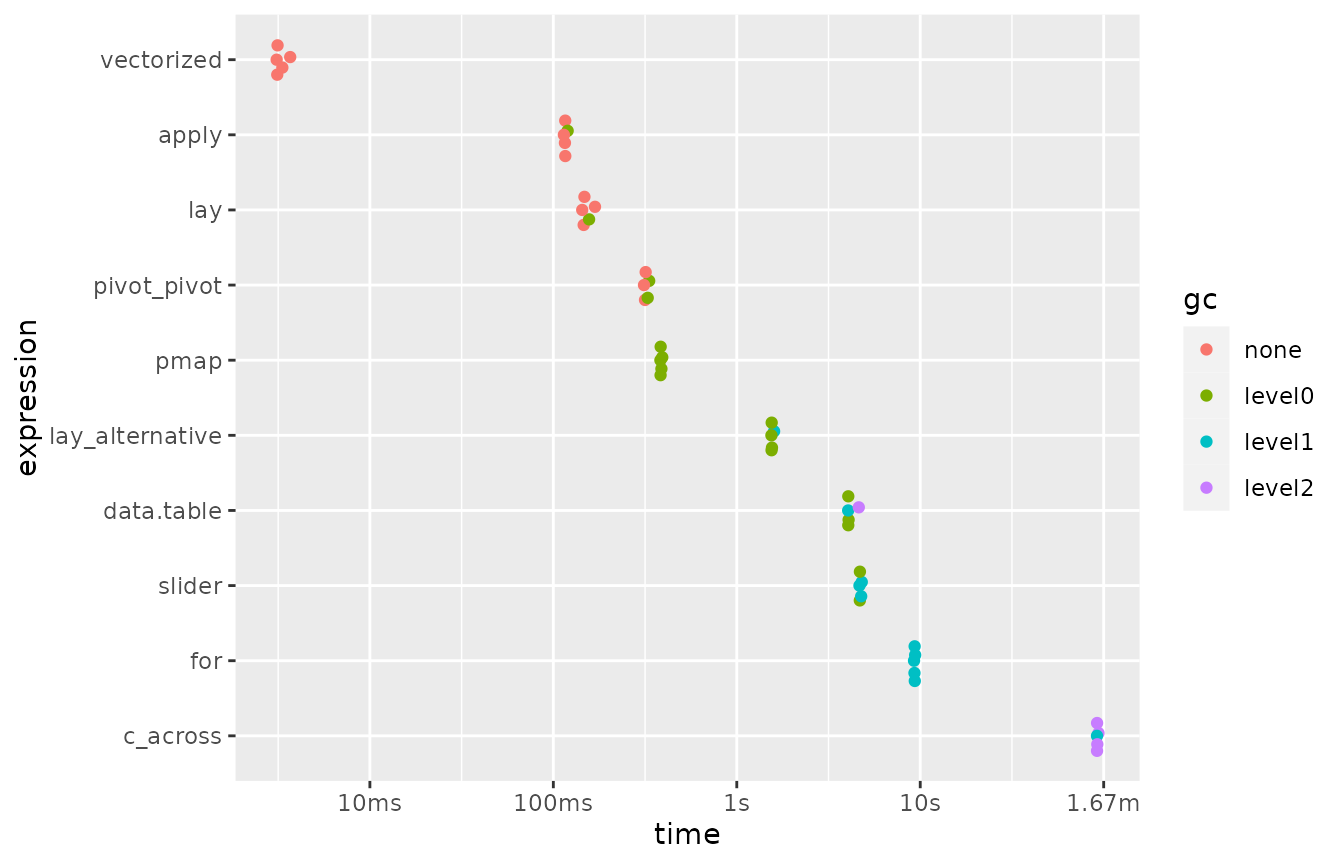
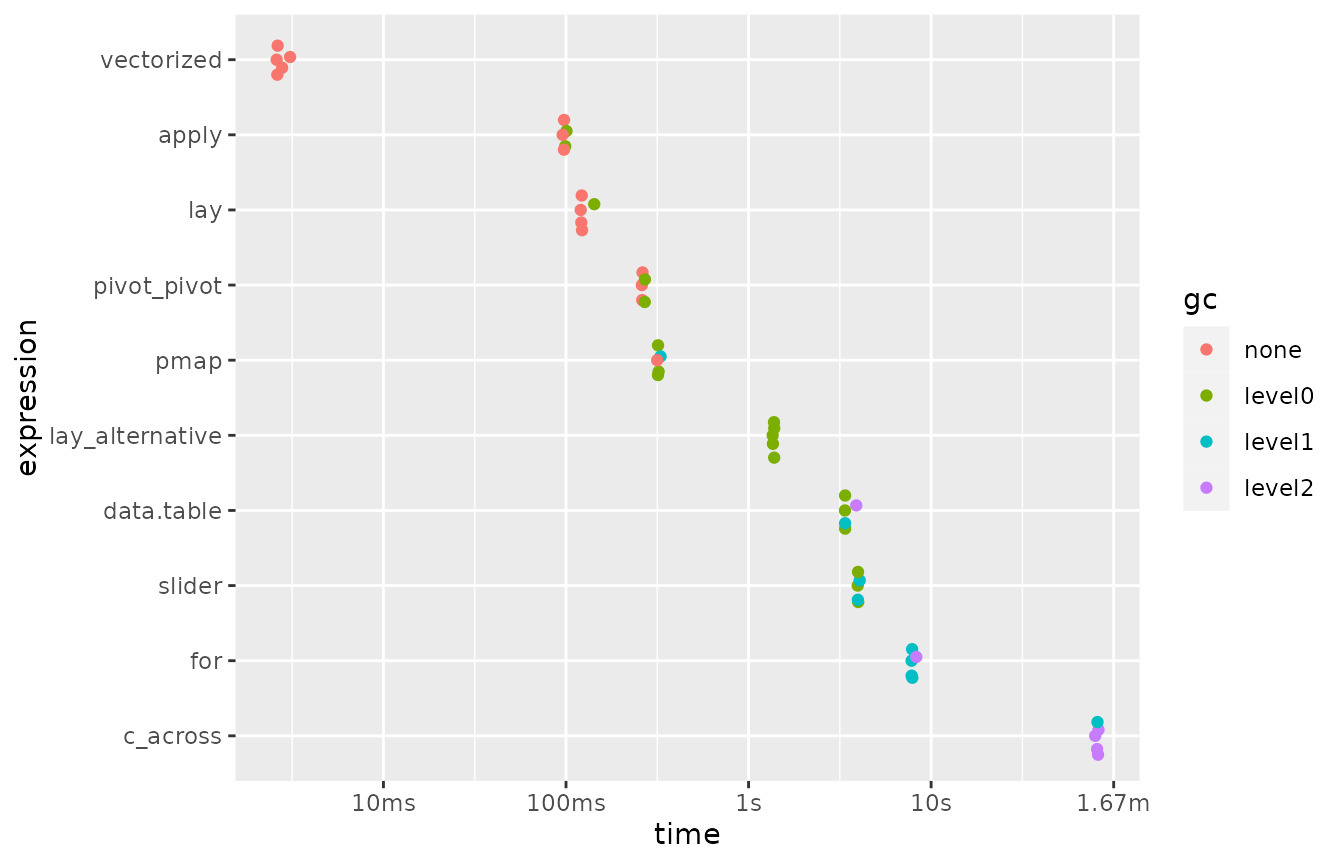
Deploying to gh-pages from @ courtiol/lay@da615e9b9bbf6adb9945c7fab8ef86ddaa687f62 🚀

diff --git a/articles/benchmarks.html b/articles/benchmarks.html
@@ -157,12 +157,15 @@ of pain relievers for non medical purpose.</p>
 create a new variable named <code>everused</code> which indicates if
 each respondent has used any of the considered pain relievers for non
 medical purpose or not.</p>
+<p>We will run benchmarks on the dataset <code>drugs_full</code> and its
+55271 rows, as well as on a subset of this data called
+<code>drugs</code> that only contains 100 rows.</p>
 </div>
 <div class="section level2">
-<h2 id="benchmarks">Benchmarks<a class="anchor" aria-label="anchor" href="#benchmarks"></a>
+<h2 id="benchmarks-on-the-full-dataset-55271-rows">Benchmarks on the full dataset (55271 rows)<a class="anchor" aria-label="anchor" href="#benchmarks-on-the-full-dataset-55271-rows"></a>
 </h2>
-<p>Let’s compare the running time of different methods to do this
-job:</p>
+<p>Let’s compare the running time of different methods to do this job on
+the full dataset:</p>
 <div class="sourceCode" id="cb4"><pre class="downlit sourceCode r">
 <code class="sourceCode R"><span><span class="va">drugs_full_dt</span> <span class="op">&lt;-</span> <span class="fu"><a href="https://Rdatatable.gitlab.io/data.table/reference/data.table.html" class="external-link">data.table</a></span><span class="op">(</span><span class="va">drugs_full</span><span class="op">)</span> <span class="co">## coercion to data.table</span></span>
 <span></span>
@@ -211,23 +214,23 @@ job:</p>
 <span>  <span class="op">)</span></span>
 <span><span class="co">#&gt; Warning: Some expressions had a GC in every iteration; so filtering is</span></span>
 <span><span class="co">#&gt; disabled.</span></span></code></pre></div>
-<p>Here are the results of this first benchmark:</p>
+<p>Here are the results of this first series of benchmarks:</p>
 <div class="sourceCode" id="cb5"><pre class="downlit sourceCode r">
 <code class="sourceCode R"><span><span class="va">benchmark1</span> <span class="op">|&gt;</span></span>
 <span>  <span class="fu"><a href="https://dplyr.tidyverse.org/reference/arrange.html" class="external-link">arrange</a></span><span class="op">(</span><span class="va">median</span><span class="op">)</span></span>
 <span><span class="co">#&gt; <span style="color: #949494;"># A tibble: 10 × 6</span></span></span>
 <span><span class="co">#&gt;    expression           min   median `itr/sec` mem_alloc `gc/sec`</span></span>
 <span><span class="co">#&gt;    <span style="color: #949494; font-style: italic;">&lt;bch:expr&gt;</span>         <span style="color: #949494; font-style: italic;">&lt;dbl&gt;</span>    <span style="color: #949494; font-style: italic;">&lt;dbl&gt;</span>     <span style="color: #949494; font-style: italic;">&lt;dbl&gt;</span> <span style="color: #949494; font-style: italic;">&lt;bch:byt&gt;</span>    <span style="color: #949494; font-style: italic;">&lt;dbl&gt;</span></span></span>
-<span><span class="co">#&gt; <span style="color: #BCBCBC;"> 1</span> vectorized          3.10     3.14  305.        2.74MB     0   </span></span>
-<span><span class="co">#&gt; <span style="color: #BCBCBC;"> 2</span> apply             114.     116.      8.59      4.01MB     1.72</span></span>
-<span><span class="co">#&gt; <span style="color: #BCBCBC;"> 3</span> lay               144.     148.      6.55      5.49MB     1.31</span></span>
-<span><span class="co">#&gt; <span style="color: #BCBCBC;"> 4</span> pivot_pivot       312.     319.      3.11     62.38MB     1.24</span></span>
-<span><span class="co">#&gt; <span style="color: #BCBCBC;"> 5</span> pmap              383.     385.      2.59    251.29KB     3.10</span></span>
-<span><span class="co">#&gt; <span style="color: #BCBCBC;"> 6</span> lay_alternative  <span style="text-decoration: underline;">1</span>545.    <span style="text-decoration: underline;">1</span>550.      0.641     15.3MB     1.92</span></span>
-<span><span class="co">#&gt; <span style="color: #BCBCBC;"> 7</span> data.table       <span style="text-decoration: underline;">4</span>047.    <span style="text-decoration: underline;">4</span>054.      0.240     3.04MB     2.01</span></span>
-<span><span class="co">#&gt; <span style="color: #BCBCBC;"> 8</span> slider           <span style="text-decoration: underline;">4</span>664.    <span style="text-decoration: underline;">4</span>691.      0.212   915.15KB     2.12</span></span>
-<span><span class="co">#&gt; <span style="color: #BCBCBC;"> 9</span> for              <span style="text-decoration: underline;">9</span>249.    <span style="text-decoration: underline;">9</span>322.      0.107   271.48KB     2.34</span></span>
-<span><span class="co">#&gt; <span style="color: #BCBCBC;">10</span> c_across        <span style="text-decoration: underline;">91</span>954.   <span style="text-decoration: underline;">92</span>042.      0.010<span style="text-decoration: underline;">8</span>  424.32MB     1.03</span></span></code></pre></div>
+<span><span class="co">#&gt; <span style="color: #BCBCBC;"> 1</span> vectorized          2.60     2.63  364.        2.74MB     0   </span></span>
+<span><span class="co">#&gt; <span style="color: #BCBCBC;"> 2</span> apply              95.9     97.6    10.2       4.01MB     4.08</span></span>
+<span><span class="co">#&gt; <span style="color: #BCBCBC;"> 3</span> lay               120.     122.      7.95      5.49MB     1.59</span></span>
+<span><span class="co">#&gt; <span style="color: #BCBCBC;"> 4</span> pivot_pivot       260.     263.      3.77     62.38MB     1.51</span></span>
+<span><span class="co">#&gt; <span style="color: #BCBCBC;"> 5</span> pmap              316.     319.      3.11    251.29KB     2.49</span></span>
+<span><span class="co">#&gt; <span style="color: #BCBCBC;"> 6</span> lay_alternative  <span style="text-decoration: underline;">1</span>355.    <span style="text-decoration: underline;">1</span>379.      0.729     15.3MB     1.90</span></span>
+<span><span class="co">#&gt; <span style="color: #BCBCBC;"> 7</span> data.table       <span style="text-decoration: underline;">3</span>373.    <span style="text-decoration: underline;">3</span>380.      0.287     3.04MB     2.53</span></span>
+<span><span class="co">#&gt; <span style="color: #BCBCBC;"> 8</span> slider           <span style="text-decoration: underline;">3</span>962.    <span style="text-decoration: underline;">3</span>977.      0.251   915.15KB     2.40</span></span>
+<span><span class="co">#&gt; <span style="color: #BCBCBC;"> 9</span> for              <span style="text-decoration: underline;">7</span>815.    <span style="text-decoration: underline;">7</span>868.      0.126   271.73KB     2.60</span></span>
+<span><span class="co">#&gt; <span style="color: #BCBCBC;">10</span> c_across        <span style="text-decoration: underline;">79</span>215.   <span style="text-decoration: underline;">81</span>526.      0.012<span style="text-decoration: underline;">3</span>  424.32MB     1.08</span></span></code></pre></div>
 <div class="sourceCode" id="cb6"><pre class="downlit sourceCode r">
 <code class="sourceCode R"><span><span class="va">benchmark1</span> <span class="op">|&gt;</span></span>
 <span>  <span class="fu"><a href="https://dplyr.tidyverse.org/reference/mutate.html" class="external-link">mutate</a></span><span class="op">(</span>expression <span class="op">=</span> <span class="fu"><a href="https://forcats.tidyverse.org/reference/fct_reorder.html" class="external-link">fct_reorder</a></span><span class="op">(</span><span class="fu"><a href="https://rdrr.io/r/base/character.html" class="external-link">as.character</a></span><span class="op">(</span><span class="va">expression</span><span class="op">)</span>, <span class="va">median</span>, .desc <span class="op">=</span> <span class="cn">TRUE</span><span class="op">)</span><span class="op">)</span> <span class="op">|&gt;</span></span>
@@ -236,9 +239,10 @@ job:</p>
 <p>Note that the x-axis of the plot is on a logarithmic scale.</p>
 </div>
 <div class="section level2">
-<h2 id="benchmark-on-smaller-dataset">Benchmark on smaller dataset<a class="anchor" aria-label="anchor" href="#benchmark-on-smaller-dataset"></a>
+<h2 id="benchmarks-on-a-subset-of-the-data-100-rows">Benchmarks on a subset of the data (100 rows)<a class="anchor" aria-label="anchor" href="#benchmarks-on-a-subset-of-the-data-100-rows"></a>
 </h2>
-<p>Let’s repeat our benchmark using a smaller dataset:</p>
+<p>Let’s repeat our benchmarks using a only a subset of the original
+dataset:</p>
 <div class="sourceCode" id="cb7"><pre class="downlit sourceCode r">
 <code class="sourceCode R"><span><span class="va">drugs_dt</span> <span class="op">&lt;-</span> <span class="fu"><a href="https://Rdatatable.gitlab.io/data.table/reference/data.table.html" class="external-link">data.table</a></span><span class="op">(</span><span class="va">drugs</span><span class="op">)</span> <span class="co">## coercion to data.table</span></span>
 <span></span>
@@ -285,23 +289,23 @@ job:</p>
 <span>  time_unit <span class="op">=</span> <span class="st">"ms"</span>,</span>
 <span>  check <span class="op">=</span> <span class="cn">FALSE</span></span>
 <span>  <span class="op">)</span></span></code></pre></div>
-<p>Here are the results of this second benchmark:</p>
+<p>Here are the results of this second series of benchmarks:</p>
 <div class="sourceCode" id="cb8"><pre class="downlit sourceCode r">
 <code class="sourceCode R"><span><span class="va">benchmark2</span> <span class="op">|&gt;</span></span>
 <span>  <span class="fu"><a href="https://dplyr.tidyverse.org/reference/arrange.html" class="external-link">arrange</a></span><span class="op">(</span><span class="va">median</span><span class="op">)</span></span>
 <span><span class="co">#&gt; <span style="color: #949494;"># A tibble: 10 × 6</span></span></span>
 <span><span class="co">#&gt;    expression         min median `itr/sec` mem_alloc `gc/sec`</span></span>
 <span><span class="co">#&gt;    <span style="color: #949494; font-style: italic;">&lt;bch:expr&gt;</span>       <span style="color: #949494; font-style: italic;">&lt;dbl&gt;</span>  <span style="color: #949494; font-style: italic;">&lt;dbl&gt;</span>     <span style="color: #949494; font-style: italic;">&lt;dbl&gt;</span> <span style="color: #949494; font-style: italic;">&lt;bch:byt&gt;</span>    <span style="color: #949494; font-style: italic;">&lt;dbl&gt;</span></span></span>
-<span><span class="co">#&gt; <span style="color: #BCBCBC;"> 1</span> vectorized        1.22   1.30    760.      7.33KB     0   </span></span>
-<span><span class="co">#&gt; <span style="color: #BCBCBC;"> 2</span> apply             3.38   3.42    286.     16.92KB     0   </span></span>
-<span><span class="co">#&gt; <span style="color: #BCBCBC;"> 3</span> pmap              3.93   3.96    251.      9.91KB     0   </span></span>
-<span><span class="co">#&gt; <span style="color: #BCBCBC;"> 4</span> lay               5.52   5.71    174.     27.12KB     0   </span></span>
-<span><span class="co">#&gt; <span style="color: #BCBCBC;"> 5</span> lay_alternative   6.04   6.11    162.     38.05KB     5.58</span></span>
-<span><span class="co">#&gt; <span style="color: #BCBCBC;"> 6</span> data.table        7.93   8.32    120.     67.66KB     4.15</span></span>
-<span><span class="co">#&gt; <span style="color: #BCBCBC;"> 7</span> slider           11.7   12.0      82.9    11.18KB     2.86</span></span>
-<span><span class="co">#&gt; <span style="color: #BCBCBC;"> 8</span> pivot_pivot      20.9   21.3      46.9   189.23KB     1.62</span></span>
-<span><span class="co">#&gt; <span style="color: #BCBCBC;"> 9</span> for              19.7   21.5      46.2    17.74KB     3.30</span></span>
-<span><span class="co">#&gt; <span style="color: #BCBCBC;">10</span> c_across        162.   163.        6.15  794.53KB     1.87</span></span></code></pre></div>
+<span><span class="co">#&gt; <span style="color: #BCBCBC;"> 1</span> vectorized        1.07   1.08    915.      7.33KB     0   </span></span>
+<span><span class="co">#&gt; <span style="color: #BCBCBC;"> 2</span> apply             2.70   2.83    352.     16.92KB    12.1 </span></span>
+<span><span class="co">#&gt; <span style="color: #BCBCBC;"> 3</span> pmap              3.27   3.33    299.      9.91KB     0   </span></span>
+<span><span class="co">#&gt; <span style="color: #BCBCBC;"> 4</span> lay               4.70   4.78    208.     27.12KB     0   </span></span>
+<span><span class="co">#&gt; <span style="color: #BCBCBC;"> 5</span> lay_alternative   4.89   5.08    198.     38.05KB     6.83</span></span>
+<span><span class="co">#&gt; <span style="color: #BCBCBC;"> 6</span> data.table        6.90   6.97    143.     67.66KB     0   </span></span>
+<span><span class="co">#&gt; <span style="color: #BCBCBC;"> 7</span> slider            9.29   9.94    101.     11.18KB     3.47</span></span>
+<span><span class="co">#&gt; <span style="color: #BCBCBC;"> 8</span> for              16.4   17.3      57.8    17.74KB     1.99</span></span>
+<span><span class="co">#&gt; <span style="color: #BCBCBC;"> 9</span> pivot_pivot      17.1   17.7      56.8   189.23KB     1.96</span></span>
+<span><span class="co">#&gt; <span style="color: #BCBCBC;">10</span> c_across        135.   137.        7.30  794.53KB     2.22</span></span></code></pre></div>
 <div class="sourceCode" id="cb9"><pre class="downlit sourceCode r">
 <code class="sourceCode R"><span><span class="va">benchmark2</span> <span class="op">|&gt;</span></span>
 <span>  <span class="fu"><a href="https://dplyr.tidyverse.org/reference/mutate.html" class="external-link">mutate</a></span><span class="op">(</span>expression <span class="op">=</span> <span class="fu"><a href="https://forcats.tidyverse.org/reference/fct_reorder.html" class="external-link">fct_reorder</a></span><span class="op">(</span><span class="fu"><a href="https://rdrr.io/r/base/character.html" class="external-link">as.character</a></span><span class="op">(</span><span class="va">expression</span><span class="op">)</span>, <span class="va">median</span>, .desc <span class="op">=</span> <span class="cn">TRUE</span><span class="op">)</span><span class="op">)</span> <span class="op">|&gt;</span></span>
